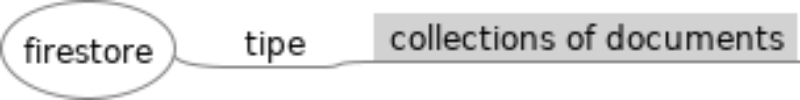
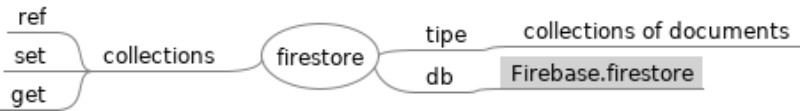
update firestore

diff --git a/firestore.mm b/firestore.mm
@@ -4,5 +4,13 @@
 <node CREATED="1650168531470" ID="ID_795329323" MODIFIED="1650168537109" POSITION="right" TEXT="tipe">
 <node CREATED="1650168538556" ID="ID_633615230" MODIFIED="1650168554514" TEXT="collections of documents"/>
 </node>
+<node CREATED="1650169195236" ID="ID_496279241" MODIFIED="1650169207041" POSITION="left" TEXT="collections">
+<node CREATED="1650169208161" ID="ID_1179036846" MODIFIED="1650169210288" TEXT="ref"/>
+<node CREATED="1650169210586" ID="ID_1526385202" MODIFIED="1650169213063" TEXT="set"/>
+<node CREATED="1650169227893" ID="ID_925170562" MODIFIED="1650169229960" TEXT="get"/>
+</node>
+<node CREATED="1650169977793" ID="ID_200844918" MODIFIED="1650169979723" POSITION="right" TEXT="db">
+<node CREATED="1650169980860" ID="ID_936451477" MODIFIED="1650170003127" TEXT="Firebase.firestore"/>
+</node>
 </node>
 </map>
